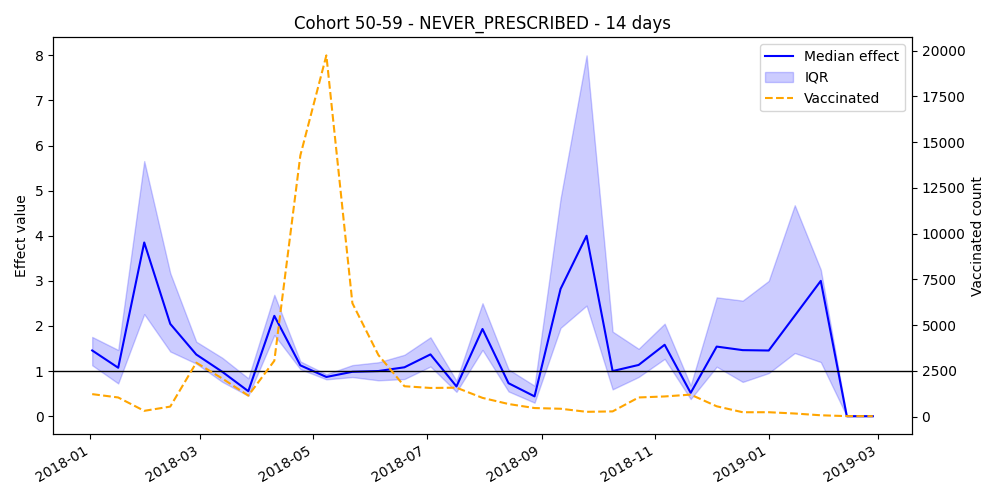
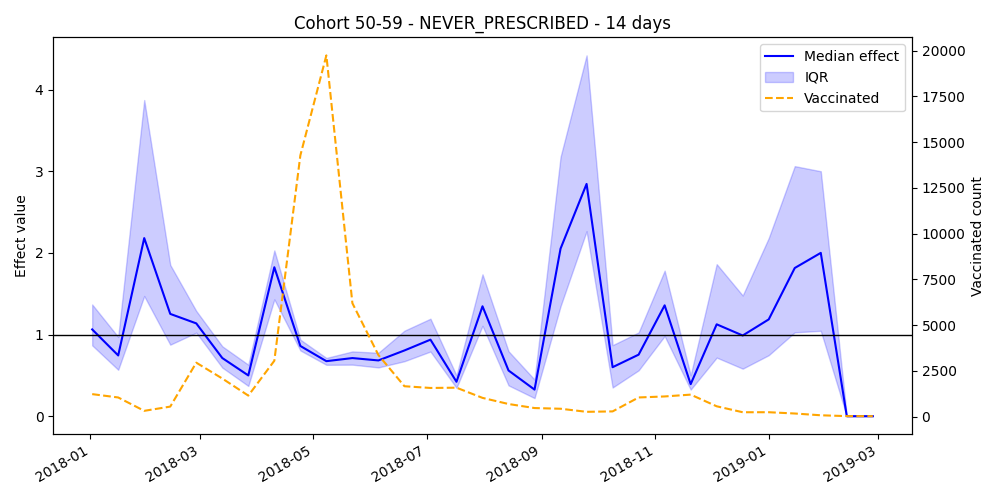
Regenerated using the correct logic

diff --git a/common/matching_simulation/prednison_windows_computer.py b/common/matching_simulation/prednison_windows_computer.py
@@ -25,18 +25,10 @@ class PrednisonWindowsComputer:
     def get_prednison_windows(
         self, people: list[Person], vax_anchor_dates: list[date]
     ) -> PeMap:
-        if self.__config.use_local_cache:
-            return self.__get_prednison_windows_from_local_cache()
-        else:
+        if not self.__config.use_local_cache:
             return self.__compute_prednison_windows(people, vax_anchor_dates)
 
-    def __get_prednison_windows_from_local_cache(
-        self,
-    ) -> PeMap:
-        with open(f"{self.__config.pojistovna.lower()}_pe_map.pkl", "rb") as f:
-            pe_map: PeMap = pickle.load(f)
-
-        return pe_map
+        return self.__get_prednison_windows_from_local_cache()
 
     def __compute_prednison_windows(
         self, people: list[Person], vax_anchor_dates: list[date]
@@ -132,6 +124,7 @@ class PrednisonWindowsComputer:
                     for gender, idset in genders.items():
                         output[anchor][pe_range][ac][gender] = list(idset)
 
+        self.__save_map_to_local_cache(output)
         return output
 
     def __add_person_to_result(
@@ -152,3 +145,24 @@ class PrednisonWindowsComputer:
             result[anchor][pe_range][ac][person.gender] = set()
 
         result[anchor][pe_range][ac][person.gender].add(person.id)
+
+    def __save_map_to_local_cache(self, pe_map: PeMap) -> None:
+        with open(
+            self.__get_file_cache_file_name(),
+            "wb",
+        ) as f:
+            pickle.dump(pe_map, f)
+
+    def __get_prednison_windows_from_local_cache(
+        self,
+    ) -> PeMap:
+        with open(
+            self.__get_file_cache_file_name(),
+            "rb",
+        ) as f:
+            pe_map: PeMap = pickle.load(f)
+
+        return pe_map
+
+    def __get_file_cache_file_name(self) -> str:
+        return f"{self.__config.pojistovna.lower()}_{self.__config.year_offset}_years_back_pe_map.pkl"

diff --git a/matching_analysis.py b/matching_analysis.py
@@ -24,7 +24,8 @@ def main():
         pojistovna="cpzp",
         zacatek_pojisteni=date(2015, 1, 1),
         konec_pojisteni=date(2023, 12, 31),
-        year_offset=0,
+        year_offset=3,
+        use_local_cache=True,
     )
     data_loader = DataLoader(config)
     age_cohort_calculator = AgeCohortCalculator(config)
@@ -40,9 +41,9 @@ def main():
     groups = {
         PE_GROUP_NAMES.NEVER_PRESCRIBED: data_loader.never_prescribed_vax_people,
         PE_GROUP_NAMES.ZERO_PE_SUSPECTIBLE: data_loader.zero_pe_suspectible,
-        PE_GROUP_NAMES.ZERO_PE: data_loader.zero_pe_vax_people,
-        PE_GROUP_NAMES.ONE_TO_FIVE_HUNDRED_PE: data_loader.one_to_five_hundred_pe_vax_people,
-        PE_GROUP_NAMES.FIVE_HUNDRED_TO_FIVE_THOUSAND_PE: data_loader.five_hundred_to_five_thousand_pe_vax_people,
+        # PE_GROUP_NAMES.ZERO_PE: data_loader.zero_pe_vax_people,
+        # PE_GROUP_NAMES.ONE_TO_FIVE_HUNDRED_PE: data_loader.one_to_five_hundred_pe_vax_people,
+        # PE_GROUP_NAMES.FIVE_HUNDRED_TO_FIVE_THOUSAND_PE: data_loader.five_hundred_to_five_thousand_pe_vax_people,
     }
 
     for group_name, group in groups.items():

diff --git a/common/matching_simulation/result_writer.py b/common/matching_simulation/result_writer.py
@@ -23,7 +23,12 @@ class ResultWriter:
         group_name: PE_GROUP_NAMES,
         aggregation_days: int,
     ):
-        folder_path = f"out/{self.__config.pojistovna}/matching_analysis/whole_period/{group_name}/{aggregation_days}_days_aggregation"
+        year_back_name = (
+            ""
+            if self.__config.year_offset == 0
+            else f"{self.__config.year_offset}_years_back_"
+        )
+        folder_path = f"out/{self.__config.pojistovna}/{year_back_name}matching_analysis/whole_period/{group_name}/{aggregation_days}_days_aggregation"
         os.makedirs(folder_path, exist_ok=True)
 
         self.__plot_treatment_effect(

diff --git a/common/matching_simulation/data_loader.py b/common/matching_simulation/data_loader.py
@@ -83,6 +83,10 @@ class DataLoader:
             if p.ukonceni_pojisteni is None:
                 p.ukonceni_pojisteni = date(2050, 12, 31)
 
+        for p in persons:
+            if p.vaccines:
+                p.vaccines[0].date = p.vaccines[0].date - self.__config.day_offset
+
         return persons
 
     def __get_vax_people(self) -> list[Person]:

diff --git a/common/matching_simulation/matching_analyser.py b/common/matching_simulation/matching_analyser.py
@@ -109,7 +109,7 @@ class MatchingAnalyser:
                     novax_map=pe_map,
                 )
             except Exception:
-                print(f"No matching person found for {person}")
+                # print(f"No matching person found for {person}")
                 continue
 
             matched_person = person_map[matched_id]
